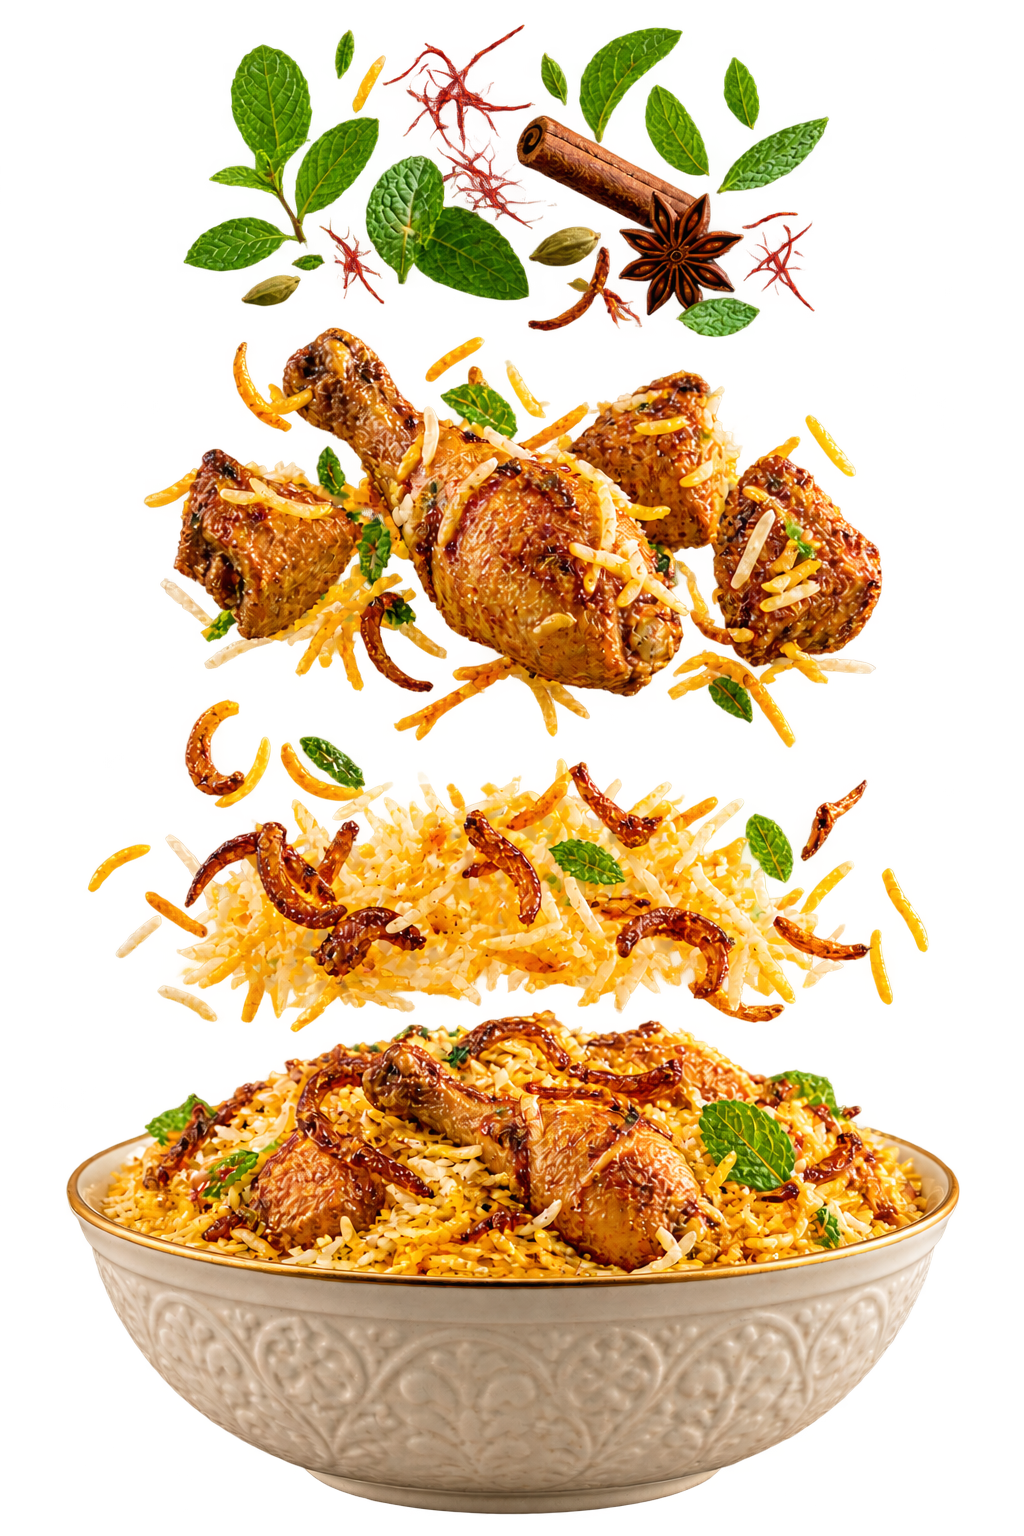
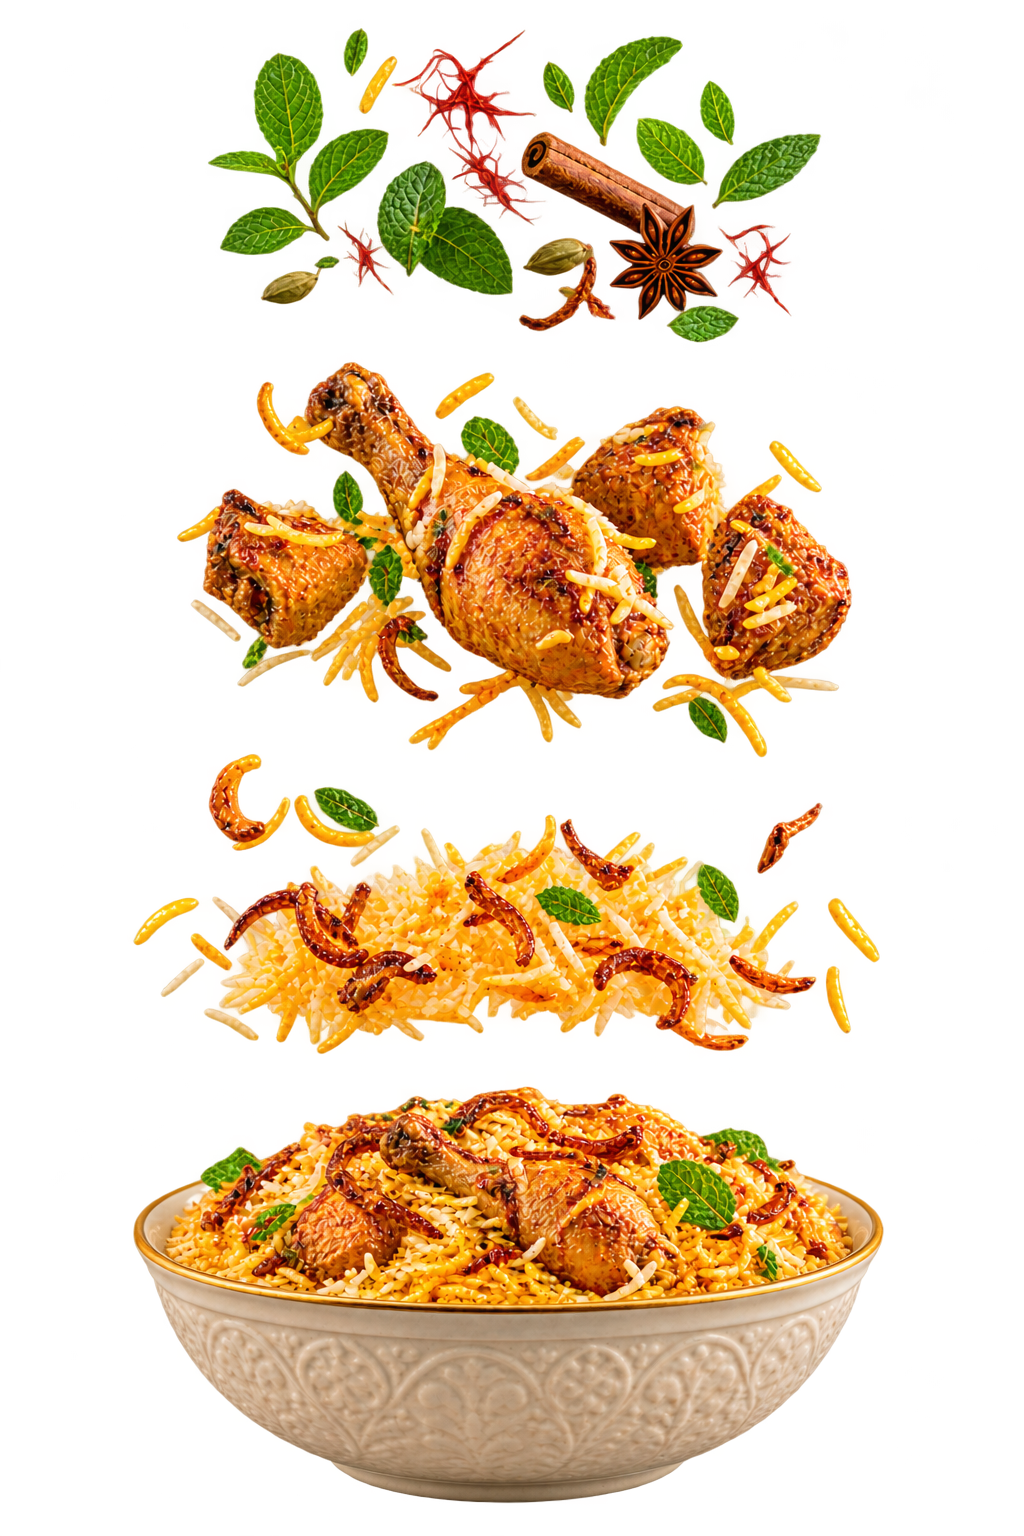
biryani fix

diff --git a/app/globals.css b/app/globals.css
@@ -407,21 +407,32 @@ p {
 }
 .ingredient-slice {
   position: absolute;
-  inset: 0;
-  background: url("/images/biryani-exploded.png") center/100% 100% no-repeat;
+  left: 0;
+  width: 100%;
+  background-position: center;
+  background-size: 100% 100%;
+  background-repeat: no-repeat;
   will-change: transform;
 }
 .ingredient-top {
-  clip-path: inset(0 0 77% 0);
+  top: 0;
+  height: 22.9167%;
+  background-image: url("/images/biryani-layer-herbs.png");
 }
 .ingredient-middle {
-  clip-path: inset(21% 0 51% 0);
+  top: 22.9167%;
+  height: 26.0417%;
+  background-image: url("/images/biryani-layer-chicken.png");
 }
 .ingredient-lower {
-  clip-path: inset(47% 0 32% 0);
+  top: 48.9583%;
+  height: 21.3542%;
+  background-image: url("/images/biryani-layer-rice.png");
 }
 .ingredient-bowl {
-  clip-path: inset(66% 0 0 0);
+  top: 70.3125%;
+  height: 29.6875%;
+  background-image: url("/images/biryani-layer-bowl.png");
 }
 .ingredient-label {
   position: absolute;
